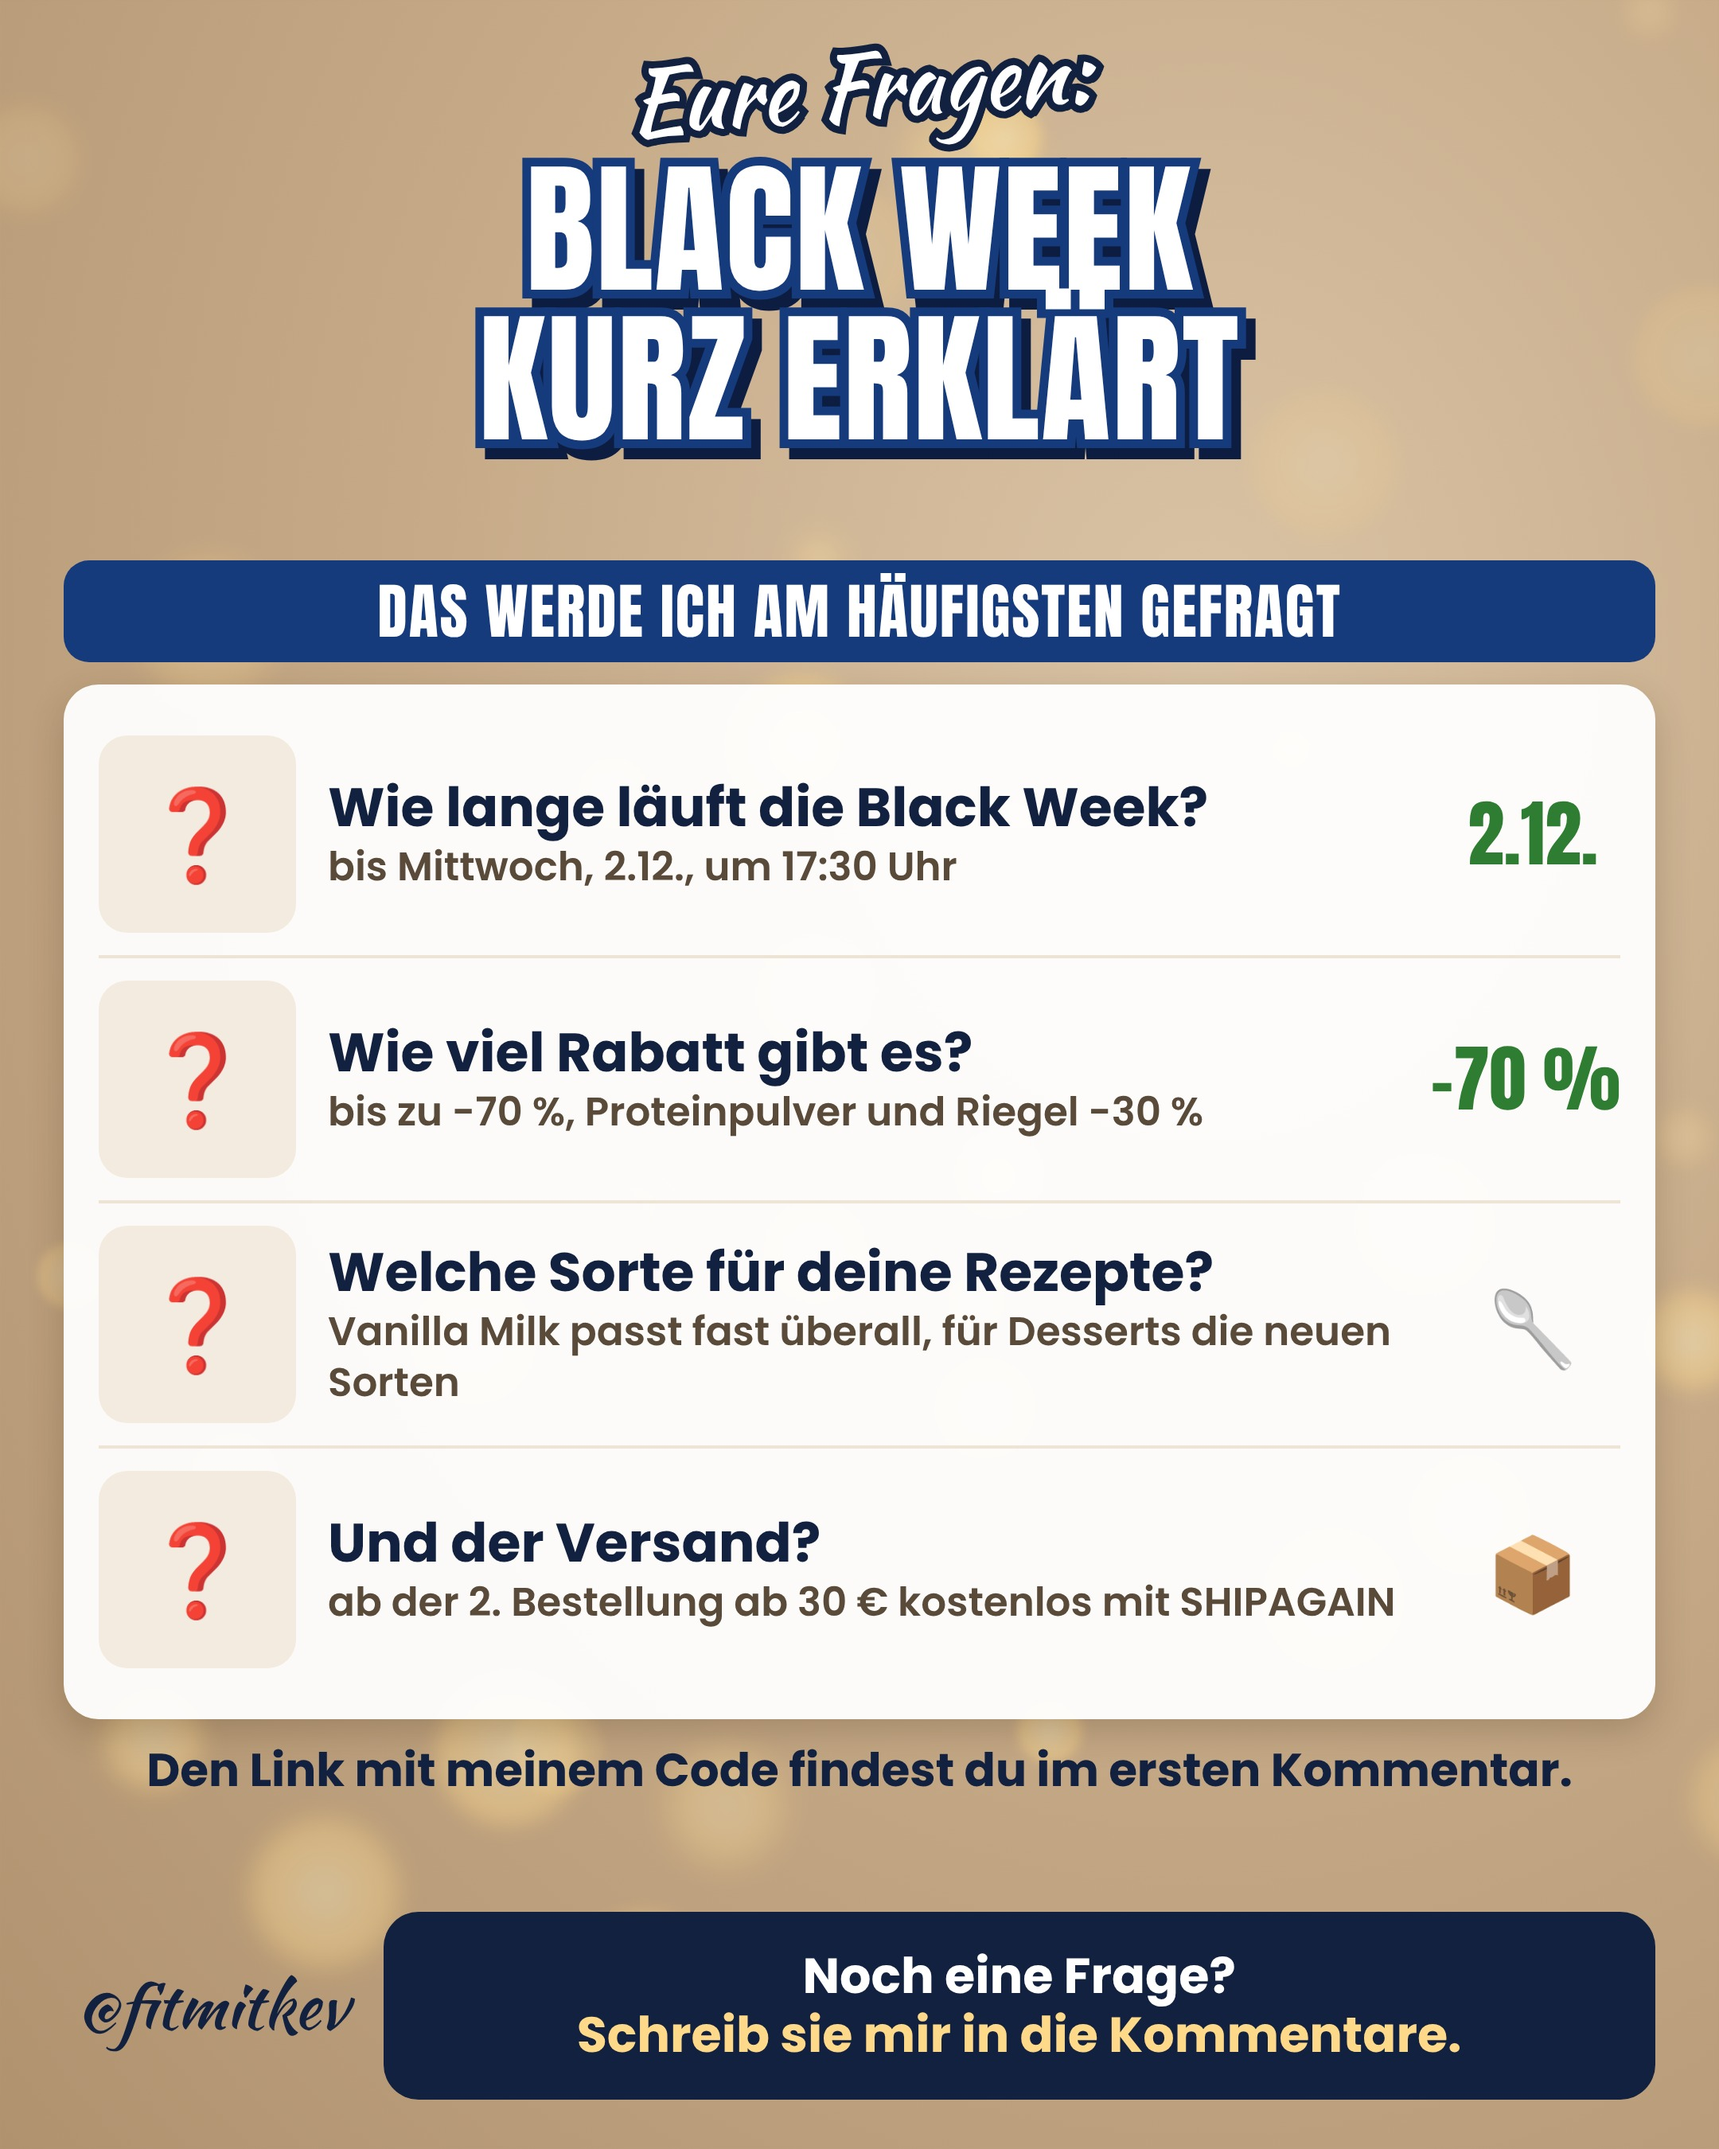
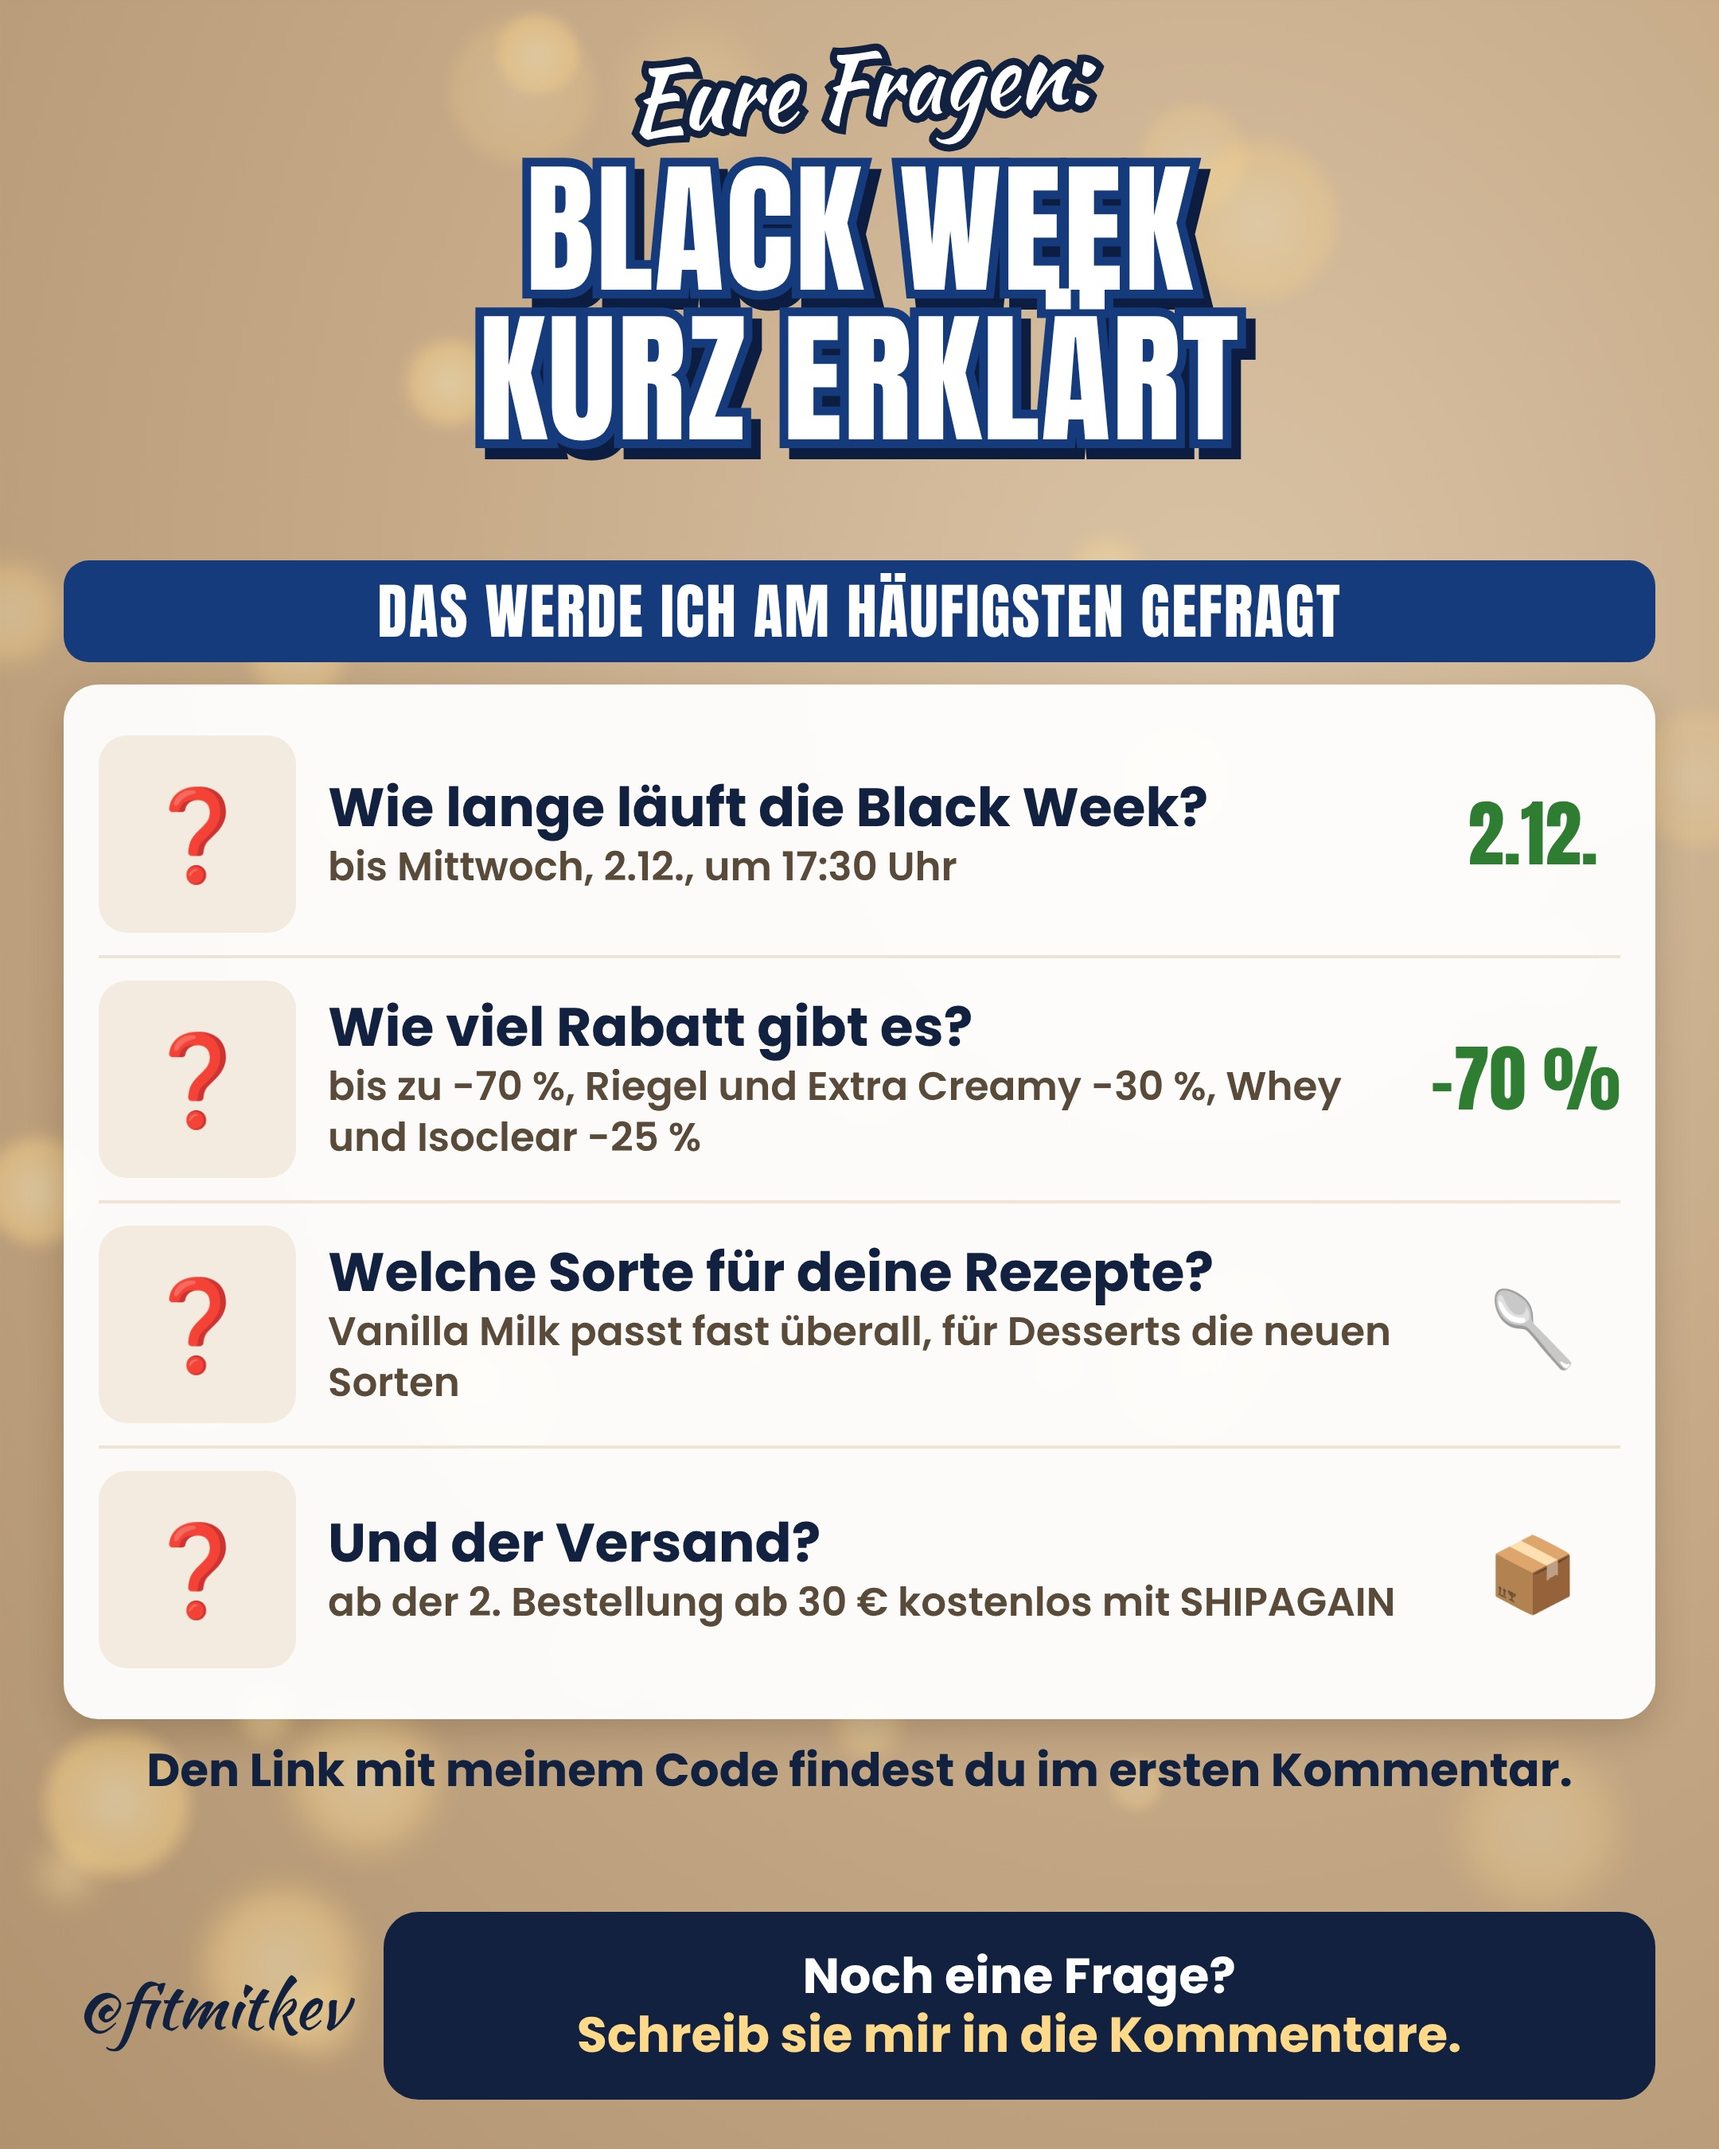
ESN: Korrekturen nach Influencer-Briefing (Kreatin-Portionen, keine Sättigungsaussagen, Rabatt-Angaben)
Claude-Session: https://claude.ai/code/session_01KPVmpRePrZAkggdzf7KsfK

diff --git a/tools/esn_produkt/produkt_texte.py b/tools/esn_produkt/produkt_texte.py
@@ -5,7 +5,7 @@ L="esn.com/instagram/FITMITKEV/aktion"; BIS="(bis Mi 2.12., 17:30 Uhr)"
 URL="https://raw.githubusercontent.com/phj4t84dpj-byte/fitmitkev-bilder/main/esn/posts/{}.jpg"
 P=[
 ("2026-11-23","12:00","ESN-P2-Morgen","Mein Frühstück unterwegs",
-"Werbung\n\nMein Frühstück unterwegs: 2 Minuten statt Bäcker ☕\n\nCoffee to go mit Croissant: ca. 450 kcal und nur 10 g Eiweiß.\nMein Protein-Kaffee mit Milch: ca. 230 kcal und 30 g Eiweiß.\n\nHalb so viele Kalorien, dreimal so viel Eiweiß. Und ich bin bis mittags satt.\n\nWas gibt's bei dir morgens? ☕🥐",
+"Werbung\n\nMein Frühstück unterwegs: 2 Minuten statt Bäcker ☕\n\nCoffee to go mit Croissant: ca. 450 kcal und nur 10 g Eiweiß.\nMein Protein-Kaffee mit Milch: ca. 230 kcal und 30 g Eiweiß.\n\nHalb so viele Kalorien, dreimal so viel Eiweiß.\n\nWas gibt's bei dir morgens? ☕🥐",
 f"Werbung: Den Protein-Kaffee (Flexpresso) gibt es gerade in der ESN Black Week mit -25 %. Black-Week-Rabatte mit Code FITMITKEV sichern 👉 {L} {BIS}"),
 ("2026-11-24","12:00","ESN-P3-Riegel","Schokoriegel oder Proteinriegel",
 "Werbung\n\nSchokoriegel oder Proteinriegel? 🍫\n\nSchokoriegel (50 g): ca. 240 kcal, 25 g Zucker, 3 g Eiweiß. Das sind 8 Stück Würfelzucker.\nDesigner Bar (45 g): ca. 200 kcal, 2 g Zucker, 14 g Eiweiß. Weich, mit Füllung.\n\nSüß darf sein. Nur eben ohne Zuckerbombe.\n\nTeam Schokoriegel oder Team Proteinriegel? 😄",
@@ -20,8 +20,8 @@ f"Werbung: Die 480-g-Dose gibt es gerade für 19,53 € statt 27,90 €. Black-W
 "Werbung\n\nBlack Friday 🖤 Meine Top 3 für den Vorrat:\n\n1. Designer Protein Extra Creamy für meine Rezepte: -30 %\n2. Designer Bar als 12er Box für den Snack: -30 %\n3. Protein-Kaffee Flexpresso für morgens: -25 %\n\nTipp: Ab der 2. Bestellung in der Black Week ist der Versand ab 30 € kostenlos mit dem Code SHIPAGAIN.\n\nEinmal im Jahr fülle ich den Vorrat auf. Was kommt bei dir in den Warenkorb?",
 f"Werbung: Die beste Aktion des Jahres läuft. Black-Week-Rabatte mit Code FITMITKEV sichern 👉 {L} {BIS}"),
 ("2026-11-28","12:00","ESN-P7-Abendsnacks","4 Eiweiß-Snacks unter 200 kcal",
-"Werbung\n\nAbends Hunger? Meine 4 Eiweiß-Snacks unter 200 kcal 🌙\n\n🥤 Shake: 30 g Proteinpulver + 300 ml Wasser, 115 kcal\n🍮 Schoko-Creme: 200 g Skyr + 15 g Proteinpulver Schoko, 185 kcal\n🍨 Schoko-Eis aus Hüttenkäse, 195 kcal\n🍫 Proteinriegel, 200 kcal\n\nAlle mit 14 bis 33 g Eiweiß. Das hält lange satt, genau das brauche ich abends.\n\nSnacken ja. Aber mit Plan. Was ist dein Abendsnack?",
-f"Werbung: Proteinpulver und Riegel gibt es gerade in der ESN Black Week mit -30 %. Black-Week-Rabatte mit Code FITMITKEV sichern 👉 {L} {BIS}"),
+"Werbung\n\nAbends Hunger? Meine 4 Eiweiß-Snacks unter 200 kcal 🌙\n\n🥤 Shake: 30 g Proteinpulver + 300 ml Wasser, 115 kcal\n🍮 Schoko-Creme: 200 g Skyr + 15 g Proteinpulver Schoko, 185 kcal\n🍨 Schoko-Eis aus Hüttenkäse, 195 kcal\n🍫 Proteinriegel, 200 kcal\n\nAlle mit 14 bis 33 g Eiweiß. Kalorien im Blick, Genuss inklusive.\n\nSnacken ja. Aber mit Plan. Was ist dein Abendsnack?",
+f"Werbung: Das Extra Creamy und die Riegel gibt es gerade in der ESN Black Week mit -30 %. Black-Week-Rabatte mit Code FITMITKEV sichern 👉 {L} {BIS}"),
 ("2026-11-29","12:00","ESN-P8-Klumpen","Proteinpulver ohne Klumpen",
 "Werbung\n\nTipp aus meiner Küche: Proteinpulver ohne Klumpen 🥄\n\n1. Erst das Pulver, dann wenig Flüssigkeit. Zu einer glatten Paste rühren, dann den Rest dazu.\n2. In Skyr und Quark: Schneebesen, 30 Sekunden kräftig. Dann wird es cremig wie Mousse.\n3. Pudding und Grießbrei: erst 2 Minuten abkühlen lassen, dann einrühren.\n4. Shake: Flüssigkeit zuerst in den Shaker, dann Pulver drauf, 20 Sekunden schütteln.\n\nKochend heiß flockt Eiweiß aus. Deshalb kommt es bei mir immer zum Schluss rein.\n\nCremig statt klumpig: Die Reihenfolge macht's. Speichern nicht vergessen 😉",
 f"Werbung: Mein Proteinpulver für alle Rezepte ist das Designer Protein von ESN. Black-Week-Rabatte mit Code FITMITKEV sichern 👉 {L} {BIS}"),
@@ -29,7 +29,7 @@ f"Werbung: Mein Proteinpulver für alle Rezepte ist das Designer Protein von ESN
 "Werbung\n\nShake, aber richtig: 3 Shakes unter 250 kcal 🥤\n\n🍪 Spekulatius-Shake: 30 g Vanilla Speculoos + 250 ml Milch (1,5 %) + Prise Zimt, 230 kcal\n🍓 Erdbeer-Shake: 30 g Strawberry Cream + 100 g Erdbeeren (TK) + 250 ml Wasser (Mixer), 145 kcal\n🍌 Schoko-Banane: 30 g Milk Chocolate + ½ Banane + 250 ml Wasser (Mixer), 170 kcal\n\nJeweils mit 24 bis 32 g Eiweiß. Eiskalt schmecken sie am besten.\n\nKein Shake muss nach Pappe schmecken. Welchen probierst du?",
 f"Werbung: Die Sorten für die Shakes gibt es gerade in der ESN Black Week mit -30 %. Black-Week-Rabatte mit Code FITMITKEV sichern 👉 {L} {BIS}"),
 ("2026-12-01","12:00","ESN-P10-Fragen","Black Week kurz erklärt",
-"Werbung\n\nEure Fragen zur Black Week, kurz erklärt 👇\n\n❓ Wie lange läuft sie? Bis morgen, Mittwoch 2.12., 17:30 Uhr.\n❓ Wie viel Rabatt gibt es? Bis zu -70 %, Proteinpulver und Riegel -30 %.\n❓ Welche Sorte für die Rezepte? Vanilla Milk passt fast überall. Für Desserts die neuen Sorten.\n❓ Und der Versand? Ab der 2. Bestellung ab 30 € kostenlos mit dem Code SHIPAGAIN.\n\nDen Link mit meinem Code findest du im ersten Kommentar.\n\nNoch eine Frage? Schreib sie mir in die Kommentare 😊",
+"Werbung\n\nEure Fragen zur Black Week, kurz erklärt 👇\n\n❓ Wie lange läuft sie? Bis morgen, Mittwoch 2.12., 17:30 Uhr.\n❓ Wie viel Rabatt gibt es? Bis zu -70 %, Riegel und Extra Creamy -30 %, Whey und Isoclear -25 %.\n❓ Welche Sorte für die Rezepte? Vanilla Milk passt fast überall. Für Desserts die neuen Sorten.\n❓ Und der Versand? Ab der 2. Bestellung ab 30 € kostenlos mit dem Code SHIPAGAIN.\n\nDen Link mit meinem Code findest du im ersten Kommentar.\n\nNoch eine Frage? Schreib sie mir in die Kommentare 😊",
 f"Werbung: Nur noch bis morgen: Black-Week-Rabatte mit Code FITMITKEV sichern 👉 {L} {BIS}"),
 ("2026-12-02","12:00","ESN-P11-Letzter-Tag","Letzte Chance: heute bis 17:30 Uhr",
 "Werbung\n\nLetzte Chance: Heute um 17:30 Uhr endet die ESN Black Week ⏰\n\nDas hole ich mir noch:\n• Ultra Dark Chocolate (neu) für Schokopudding\n• Vanilla Speculoos (neu) für Spekulatius-Desserts\n• Designer Bar Mint (neu) als Snack\n\nDanach gibt es diese Preise erst wieder in einem Jahr.\n\nNur einmal im Jahr. Heute ist der letzte Tag.",

diff --git a/tools/esn_produkt/esn_board.py b/tools/esn_produkt/esn_board.py
@@ -64,12 +64,12 @@ SPEC={
    mid='Tipp: Ab der 2. Bestellung in der Black Week ist der Versand ab 30 € kostenlos<br><span>mit dem Code SHIPAGAIN.</span>',
    msg='Einmal im Jahr<br><span>fülle ich den Vorrat auf.</span>'),
  'P7':dict(out='ESN-P7-Abendsnacks', hook='Abends Hunger?', title=['4 EIWEISS-SNACKS','UNTER 200 KCAL'], size=80,
-   secs=[dict(lab='SATT ÜBER DEN ABEND', col=BLUE, type='rows', d=[
+   secs=[dict(lab='MEINE SNACKS FÜR DEN ABEND', col=BLUE, type='rows', d=[
       ('🥤','Shake','30 g Proteinpulver + 300 ml Wasser','115<br><small>kcal</small>'),
       ('🍮','Schoko-Creme','200 g Skyr + 15 g Proteinpulver Schoko','185<br><small>kcal</small>'),
       ('🍨','Schoko-Eis','1 Portion Eis aus Hüttenkäse','195<br><small>kcal</small>'),
       ('🍫','Proteinriegel','1 Riegel (45 g)','200<br><small>kcal</small>')])],
-   mid='Alle mit 14 bis 33 g Eiweiß.<br><span>Eiweiß hält lange satt, genau das brauche ich abends.</span>',
+   mid='Alle mit 14 bis 33 g Eiweiß.<br><span>Kalorien im Blick, Genuss inklusive.</span>',
    msg='Snacken ja.<br><span>Aber mit Plan.</span>'),
  'P8':dict(out='ESN-P8-Klumpen', hook='Tipp aus meiner Küche:', title=['PROTEINPULVER','OHNE KLUMPEN'], size=86,
    secs=[dict(lab='SO RÜHRE ICH ES EIN', col=GREEN, type='rows', d=[
@@ -89,7 +89,7 @@ SPEC={
  'P10':dict(out='ESN-P10-Fragen', hook='Eure Fragen:', title=['BLACK WEEK','KURZ ERKLÄRT'], size=90,
    secs=[dict(lab='DAS WERDE ICH AM HÄUFIGSTEN GEFRAGT', col=BLUE, type='rows', d=[
       ('❓','Wie lange läuft die Black Week?','bis Mittwoch, 2.12., um 17:30 Uhr','2.12.'),
-      ('❓','Wie viel Rabatt gibt es?','bis zu -70 %, Proteinpulver und Riegel -30 %','-70 %'),
+      ('❓','Wie viel Rabatt gibt es?','bis zu -70 %, Riegel und Extra Creamy -30 %, Whey und Isoclear -25 %','-70 %'),
       ('❓','Welche Sorte für deine Rezepte?','Vanilla Milk passt fast überall, für Desserts die neuen Sorten','🥄'),
       ('❓','Und der Versand?','ab der 2. Bestellung ab 30 € kostenlos mit SHIPAGAIN','📦')])],
    mid='Den Link mit meinem Code findest du im ersten Kommentar.',

diff --git a/tools/esn_story/serie2.py b/tools/esn_story/serie2.py
@@ -60,7 +60,7 @@ S['7-Riegel-Duell']=f'''<style>.h{{font-size:150px}}
 <div class="nm"><span>Designer Bar</span><span>GOAT Bar</span></div><div class="hr" style="margin-top:14px"></div>
 <div>{tab}</div><div class="q">Team Designer oder Team GOAT?</div></div>{CODE}'''
 # 3 Kreatin
-KR=[('kreatin-pulver.png','Pulver','250 g, 62 Portionen','11,34','18,90','0,18'),('kreatin-kapseln.png','Kapseln','300 Stück, 100 Portionen','21,54','35,90','0,22'),('kreatin-gummies.png','Gummies','120 Stück, 30 Portionen','16,74','27,90','0,56')]
+KR=[('kreatin-pulver.png','Pulver','250 g, 71 Portionen','11,34','18,90','0,16'),('kreatin-kapseln.png','Kapseln','300 Stück, 100 Portionen','21,54','35,90','0,22'),('kreatin-gummies.png','Gummies','120 Stück, 30 Portionen','16,74','27,90','0,56')]
 cols=''.join(f'''<div class="kc"><div class="ki"><img src="{u(n)}"></div><div class="kn">{t}</div><div class="ks">{s}</div>
 <div class="kp">{p} €</div><div class="st" style="font-size:24px">{a} €</div><div class="kpp"><b>{pp} €</b><br>pro Portion</div></div>''' for n,t,s,p,a,pp in KR)
 S['8-Kreatin']=f'''<style>.h{{font-size:112px}} .h em{{font-style:normal;color:{C[40]}}}
